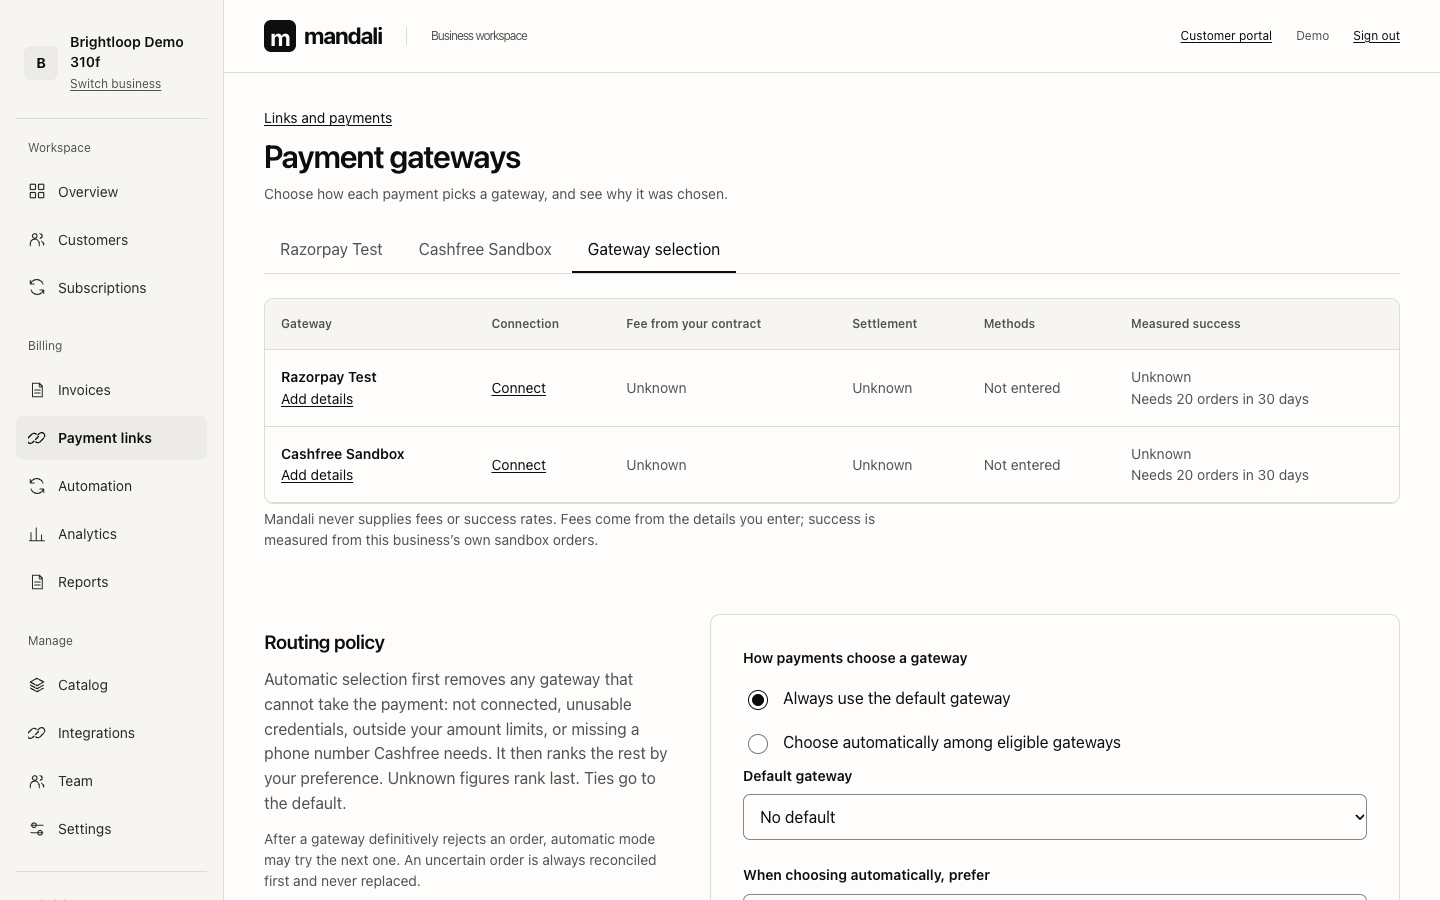
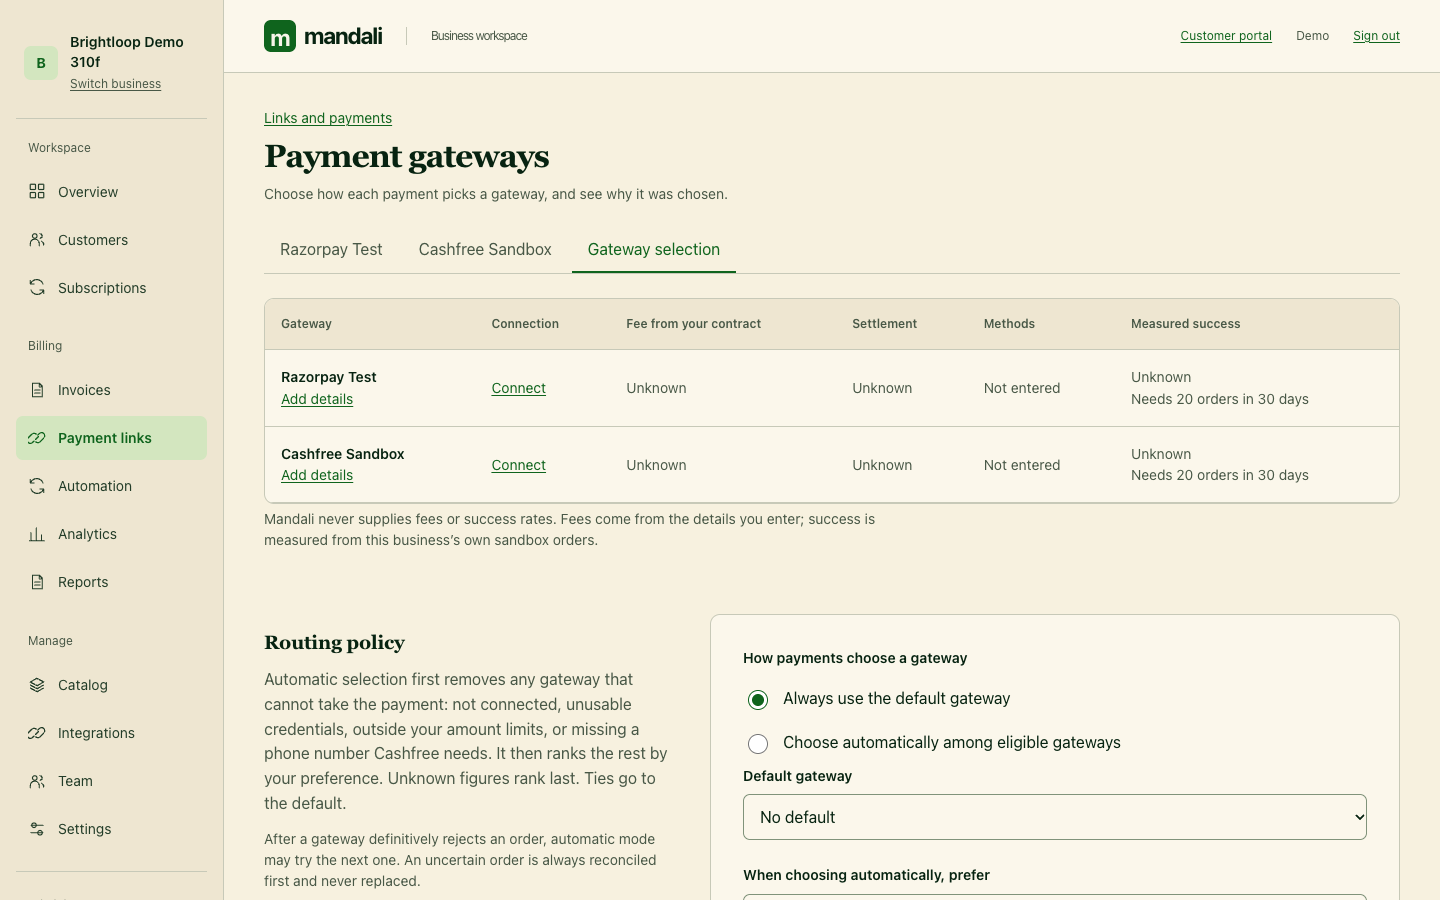
style: switch to Hallmark's Garden theme
Warm oat paper, deep green ink, and serif headings (Vollkorn, falling back
to Georgia). Leaf green is the working colour and marks money in; a clay
tint marks partial and pending invoices. Overdue stays red. README
screenshots refreshed.

diff --git a/static/core/workspace.css b/static/core/workspace.css
@@ -1,29 +1,29 @@
-/* Hallmark · shape: app screen · genre: modern-minimal · theme: Ink (by request) · redesign: palette
+/* Hallmark · shape: app screen · genre: modern-minimal · theme: Garden (by request) · redesign: palette
  * nav: grouped workspace sidebar and native mobile menu · footer: product utility line
  * signature: collections chart beside the overdue invoice queue · states: empty, error, full, submitting
- * axes: light/grotesk-sans/neutral · posture: restrained · data: actual records; demo captures use sample data · v2.0.0 */
+ * axes: light/serif-heads/warm green · posture: restrained · data: actual records; demo captures use sample data · v2.0.0 */
 /* Hallmark · pre-emit critique: P4 H4 E4 S4 R5 V4 · weakest: H, separated billing work from settings and made the collection queue lead */
 :root {
-  --color-shell: oklch(97% 0.004 100);
-  --color-surface: oklch(99.5% 0.003 100);
-  --color-hover: oklch(95.5% 0.004 100);
-  --color-chart: oklch(86% 0.06 190);
-  --color-chart-current: oklch(50% 0.095 188);
-  --color-rule-soft: oklch(93.5% 0.003 100);
-  --color-control-border: oklch(62% 0 0);
-  --color-ink: oklch(16% 0 0);
-  --color-ink-2: oklch(28% 0 0);
-  --color-muted: oklch(44% 0 0);
-  --color-rule: oklch(89% 0.004 100);
-  --color-accent: oklch(16% 0 0);
-  --color-accent-deep: oklch(28% 0 0);
-  --color-accent-soft: oklch(94% 0.006 100);
-  --color-accent-ink: oklch(99.5% 0.003 100);
-  --color-focus: oklch(50% 0.095 188);
-  --color-paper: oklch(99.5% 0.003 100);
-  --color-paper-2: oklch(97% 0.004 100);
-  --font-body: "Epilogue", -apple-system, BlinkMacSystemFont, "Segoe UI", system-ui, sans-serif;
-  --font-display: var(--font-body);
+  --color-shell: oklch(92.6% 0.030 90);
+  --color-surface: oklch(97.6% 0.016 90);
+  --color-hover: oklch(90.5% 0.036 100);
+  --color-chart: oklch(84% 0.08 128);
+  --color-chart-current: oklch(46% 0.135 142);
+  --color-rule-soft: oklch(89% 0.022 100);
+  --color-control-border: oklch(64% 0.042 138);
+  --color-ink: oklch(23% 0.050 152);
+  --color-ink-2: oklch(33% 0.048 150);
+  --color-muted: oklch(44% 0.034 142);
+  --color-rule: oklch(83% 0.024 112);
+  --color-accent: oklch(44% 0.13 145);
+  --color-accent-deep: oklch(37% 0.11 148);
+  --color-accent-soft: oklch(90% 0.055 128);
+  --color-accent-ink: oklch(97% 0.015 95);
+  --color-focus: oklch(46% 0.135 142);
+  --color-paper: oklch(95.8% 0.024 90);
+  --color-paper-2: oklch(97.6% 0.016 90);
+  --font-body: "Hanken Grotesk", -apple-system, BlinkMacSystemFont, "Segoe UI", system-ui, sans-serif;
+  --font-display: "Vollkorn", Georgia, ui-serif, serif;
   --text-display: 2rem;
   --text-section: 1.2rem;
   --text-title: 1rem;
@@ -36,7 +36,8 @@
   --radius-card: 10px;
   --radius-input: 7px;
   --shadow-card: none;
-  --color-in: oklch(50% 0.095 188); --color-in-soft: oklch(93% 0.05 190); --color-in-ink: oklch(27% 0.045 190);
+  --color-in: oklch(44% 0.13 145); --color-in-soft: oklch(90% 0.06 130); --color-in-ink: oklch(30% 0.08 148);
+  --color-clay: oklch(54% 0.140 46); --color-clay-soft: oklch(92% 0.04 55);
 }
 body { background: var(--color-paper); font-family: var(--font-body); }
 .workspace-shell { padding-left: 224px; }

diff --git a/static/core/tokens.css b/static/core/tokens.css
@@ -5,22 +5,23 @@
   --text-display-s: 1.44rem; --text-display: 1.728rem; --text-section: 1.2rem; --text-title: 1rem; --text-lead: 1rem;
   --ease-out: cubic-bezier(0.16, 1, 0.3, 1); --ease-in: cubic-bezier(0.7, 0, 0.84, 0); --ease-in-out: cubic-bezier(0.65, 0, 0.35, 1);
   --dur-micro: 120ms; --dur-short: 220ms; --dur-long: 420ms;
-  --color-error: oklch(52% 0.19 27); --color-success: oklch(50% 0.12 150);
+  --color-error: oklch(50% 0.17 32); --color-success: oklch(46% 0.13 145);
   --container: 1248px; --gutter: 48px; --gap-columns: 32px; --section-gap-s: 120px; --section-gap: 144px; --section-gap-l: 176px;
   --z-base: 1; --z-raised: 10; --z-dropdown: 100; --z-sticky: 200; --z-sticky-nav: 300; --z-modal: 400; --z-toast: 500; --z-tooltip: 600;
-  --color-paper: oklch(99.5% 0.003 100); --color-paper-2: oklch(97% 0.004 100); --color-paper-3: oklch(94% 0.006 100);
-  --color-ink: oklch(16% 0 0); --color-ink-2: oklch(28% 0 0); --color-muted: oklch(44% 0 0);
-  --color-rule: oklch(89% 0.004 100);
-  --color-accent: oklch(16% 0 0); --color-accent-deep: oklch(28% 0 0); --color-accent-soft: oklch(94% 0.006 100); --color-accent-ink: oklch(99.5% 0.003 100);
-  --color-focus: oklch(50% 0.095 188);
+  --color-paper: oklch(95.8% 0.024 90); --color-paper-2: oklch(97.6% 0.016 90); --color-paper-3: oklch(89% 0.034 90);
+  --color-ink: oklch(23% 0.050 152); --color-ink-2: oklch(33% 0.048 150); --color-muted: oklch(44% 0.034 142);
+  --color-rule: oklch(83% 0.024 112);
+  --color-accent: oklch(44% 0.13 145); --color-accent-deep: oklch(37% 0.11 148); --color-accent-soft: oklch(90% 0.055 128); --color-accent-ink: oklch(97% 0.015 95);
+  --color-focus: oklch(46% 0.135 142);
   --p-mon: oklch(85% 0.052 22); --p-tue: oklch(87.5% 0.058 64); --p-wed: oklch(91.5% 0.064 98); --p-thu: oklch(86.5% 0.075 160);
   --p-fri: oklch(87% 0.048 210); --p-sat: oklch(84% 0.045 270); --p-sun: oklch(84% 0.048 322);
   --light: oklch(99.4% 0.016 84); --glint: oklch(100% 0 0);
-  --font-display: var(--font-body); --font-body: "Epilogue", -apple-system, BlinkMacSystemFont, "Segoe UI", system-ui, sans-serif;
+  --font-display: "Vollkorn", Georgia, ui-serif, serif; --font-body: "Hanken Grotesk", -apple-system, BlinkMacSystemFont, "Segoe UI", system-ui, sans-serif;
   --font-outlier: "IBM Plex Mono", ui-monospace, monospace;
   --radius-card: 14px; --radius-input: 8px; --radius-pill: 999px; --rule-hair: 1px;
   --shadow-card: 0 1px 2px oklch(20% 0 0 / 0.08), 0 24px 48px -24px oklch(30% 0 0 / 0.35);
   --shadow-lift: 0 1px 1px oklch(20% 0 0 / 0.10), 8px 18px 28px -14px oklch(28% 0 0 / 0.32), 18px 40px 60px -30px oklch(30% 0 0 / 0.30);
   --tracking-display: -0.025em; --display-weight: 700;
-  --color-in: oklch(50% 0.095 188); --color-in-soft: oklch(93% 0.05 190); --color-in-ink: oklch(27% 0.045 190);
+  --color-in: oklch(44% 0.13 145); --color-in-soft: oklch(90% 0.06 130); --color-in-ink: oklch(30% 0.08 148);
+  --color-clay: oklch(54% 0.140 46); --color-clay-soft: oklch(92% 0.04 55);
 }

diff --git a/static/core/app.css b/static/core/app.css
@@ -1,6 +1,6 @@
-/* Hallmark · shape: app screen · genre: modern-minimal · theme: Ink (by request), black working colour and one teal for money in
+/* Hallmark · shape: app screen · genre: modern-minimal · theme: Garden (by request), oat paper, deep green ink, leaf-green signal, clay for warnings
  * nav: top bar and workspace tabs, catalog and filter subtabs · signature: workspace essentials ledger; invoice balance ledger; sync preview · states: empty, error, full, submitting, draft, issued, overdue, paid, cancelled
- * axes: light/grotesk-sans/neutral · posture: restrained · dose: white, no imagery or decorative motion · v2.0.0 */
+ * axes: light/serif-heads/warm green · posture: restrained · dose: white, no imagery or decorative motion · v2.0.0 */
 /* Hallmark · finish-review: subagent, ship; mobile member rows refined after review. Login sweep: 0 FAIL, 0 REFLEX, 0 WARN. Part 2 billing sweep, 17 screens: 0 FAIL, 0 REFLEX, 0 WARN. Part 4 sweep, 26 screens: 0 FAIL, 0 REFLEX, 0 WARN. Part 6 sweep, 32 screens: 0 FAIL, 0 REFLEX, 0 WARN. Part 7 sweep, 43 screens: 0 FAIL, 0 WARN, 3 waived. */
 /* Hallmark · pre-emit critique: P4 H4 E4 S4 R5 V4 · weakest: S, kept business settings and access as the screen's substance */
 /* Hallmark · waive 49b · first table cells keep overflow-wrap: anywhere · customer names are real data and must wrap rather than overflow at 320px */
@@ -333,8 +333,10 @@ section > h2 + .stat-row { margin-top: var(--space-md); }
 /* Coral pass: one-line text actions; the balance ledger reads as the signature panel. */
 .text-button { white-space: nowrap; }
 .ledger { border-top: 3px solid var(--color-accent); }
-/* Ink: black does the work; teal means money in (paid, active, collected). */
+/* Garden: leaf green is the working colour and means money in; clay marks partial and pending states. */
 .tag.status-active, .tag.status-paid { background: var(--color-in-soft); color: var(--color-in-ink); }
-.ledger { border-top-color: var(--color-ink); }
+.ledger { border-top-color: var(--color-accent); }
+.tag.status-partial, .tag.status-issued, .tag.status-quotation, .tag.status-confirmed { background: var(--color-clay-soft); color: oklch(38% 0.11 46); box-shadow: none; }
+h1, h2 { font-family: var(--font-display); font-weight: 600; letter-spacing: -0.01em; }
 .stat-row dd, .ledger .ledger-total dd { font-variant-numeric: tabular-nums; }
 

diff --git a/static/checkout/checkout.css b/static/checkout/checkout.css
@@ -1,4 +1,4 @@
-/* Hallmark · shape: app screen · genre: modern-minimal · theme: Ink, shared tokens
+/* Hallmark · shape: app screen · genre: modern-minimal · theme: Garden, shared tokens
  * signature: scoped invoice ledger beside buyer details · states: empty, error, pending, verified, unavailable · v2.0.0 */
 /* critique: preserve the existing ledger hierarchy; keep test status visible beside the amount. */
 .checkout-grid :is(a, button, input, textarea):focus-visible { outline: 3px solid var(--color-focus); outline-offset: 3px; }

diff --git a/docs/DESIGN.md b/docs/DESIGN.md
@@ -53,6 +53,6 @@ Applied nutlope/hallmark v2.0.0 at revision `4f6a46c6dc325d40ab268c93e25c7b96676
 
 Before/after review used locally rendered Django pages with sample data. Thirty desktop/mobile captures cover Overview, Analytics, Reports, invoice, quotation form and login. The kept-content comparison preserves 31/31 links, 16/16 original fields, 5/5 script hooks and 8/8 figures; the new form fields are additive. Dynamic CSRF values were normalized only in review snapshots. Three intentionally changed headings replace the old workspace title and placeholder sections; the workspace name remains in navigation.
 
-Current captures in Hallmark's Ink theme (white paper, hueless black for actions, one teal reserved for money in): [overview](screenshots/app-overview.png), [mobile overview](screenshots/app-overview-mobile.png), [invoice](screenshots/app-invoice.png), and [analytics](screenshots/app-analytics.png).
+Current captures in Hallmark's Garden theme (warm oat paper, deep green ink, serif headings, leaf green for actions and money in, clay for pending): [overview](screenshots/app-overview.png), [mobile overview](screenshots/app-overview-mobile.png), [invoice](screenshots/app-invoice.png), and [analytics](screenshots/app-analytics.png).
 
 The final source/render audit has 0 FAIL and 0 REFLEX findings. Retained warnings concern inherited CSS recipes (the old mark contrast and shared box/button rules, overridden by the new workspace stylesheet), an existing prose apostrophe, and the three intentional heading changes. Two inherited hidden-content measurement findings are waived by the tool: the closed tracking disclosure and invoice credit-note disclosure. These were visually reviewed rather than changing their working interactions. Review was performed in-thread without subagents.
